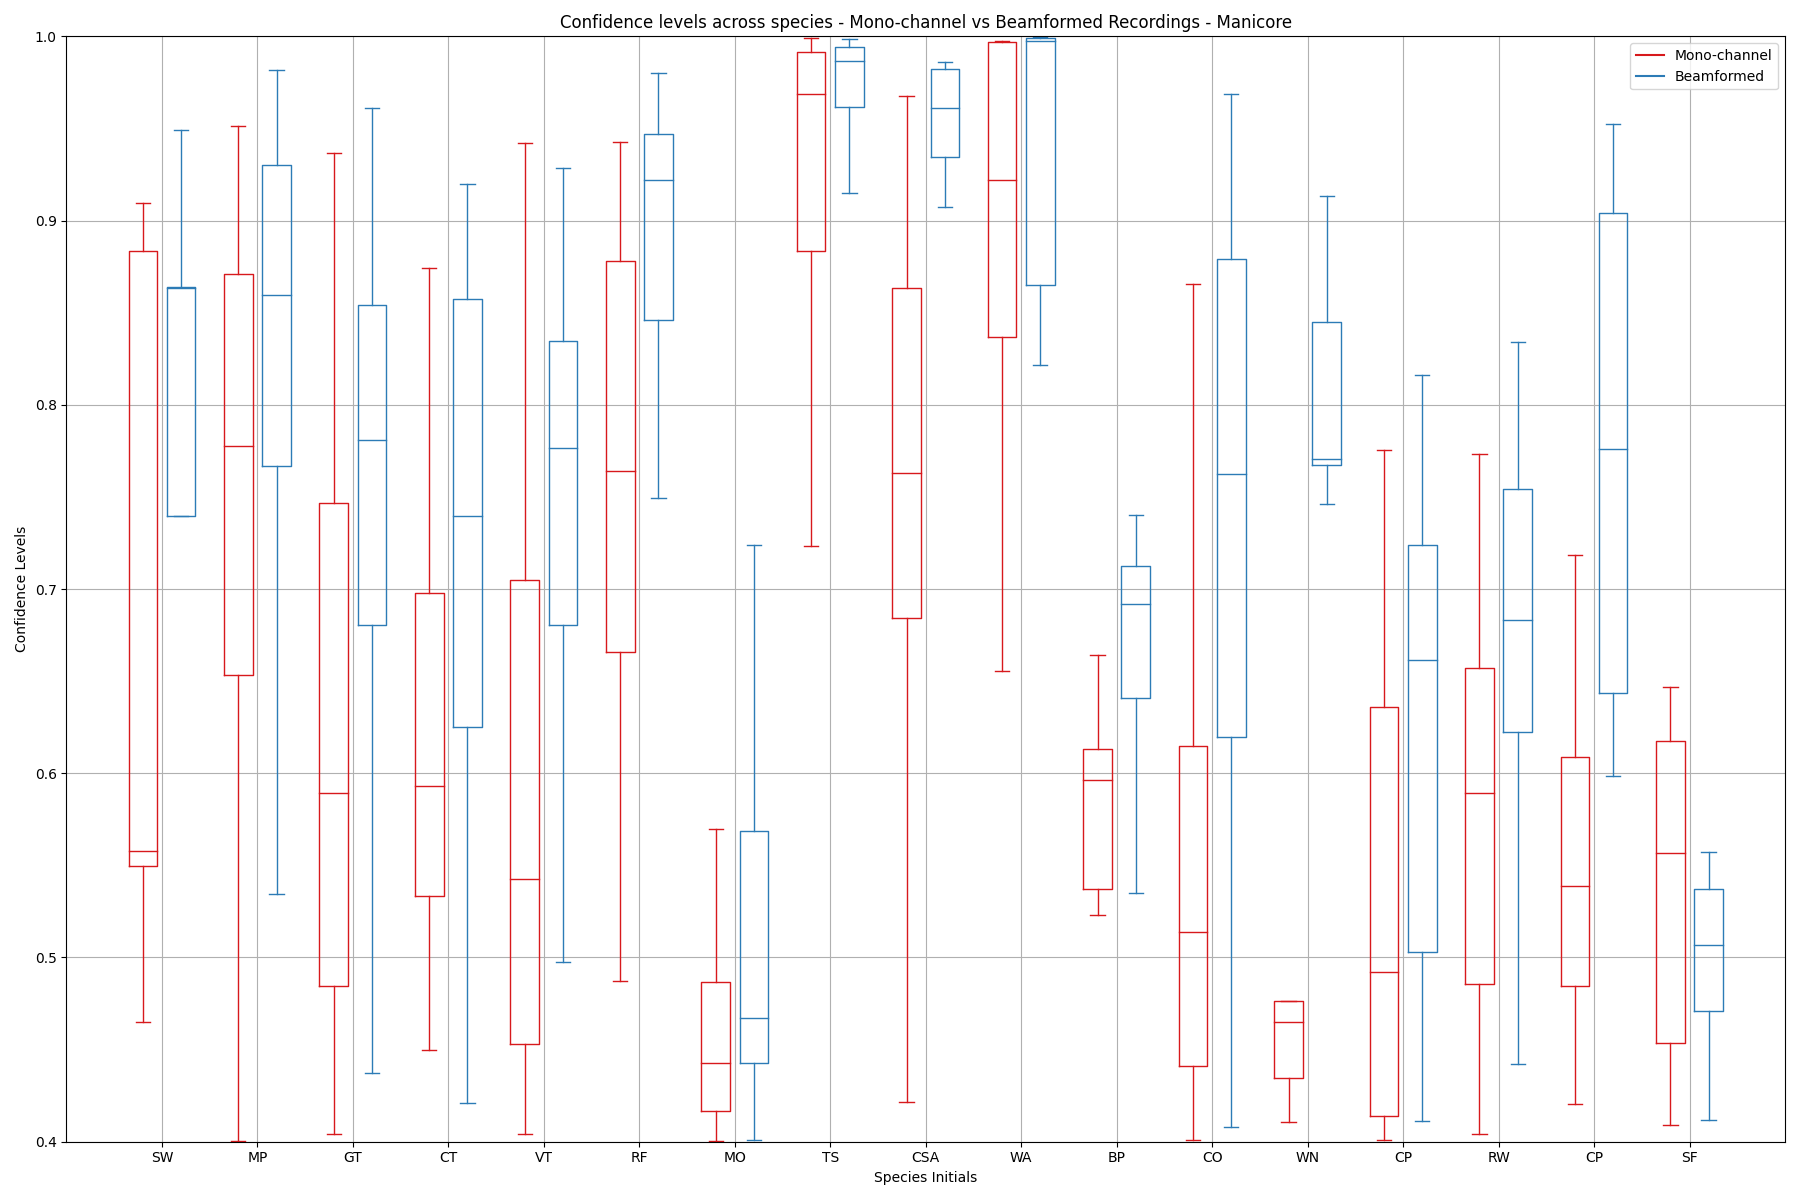
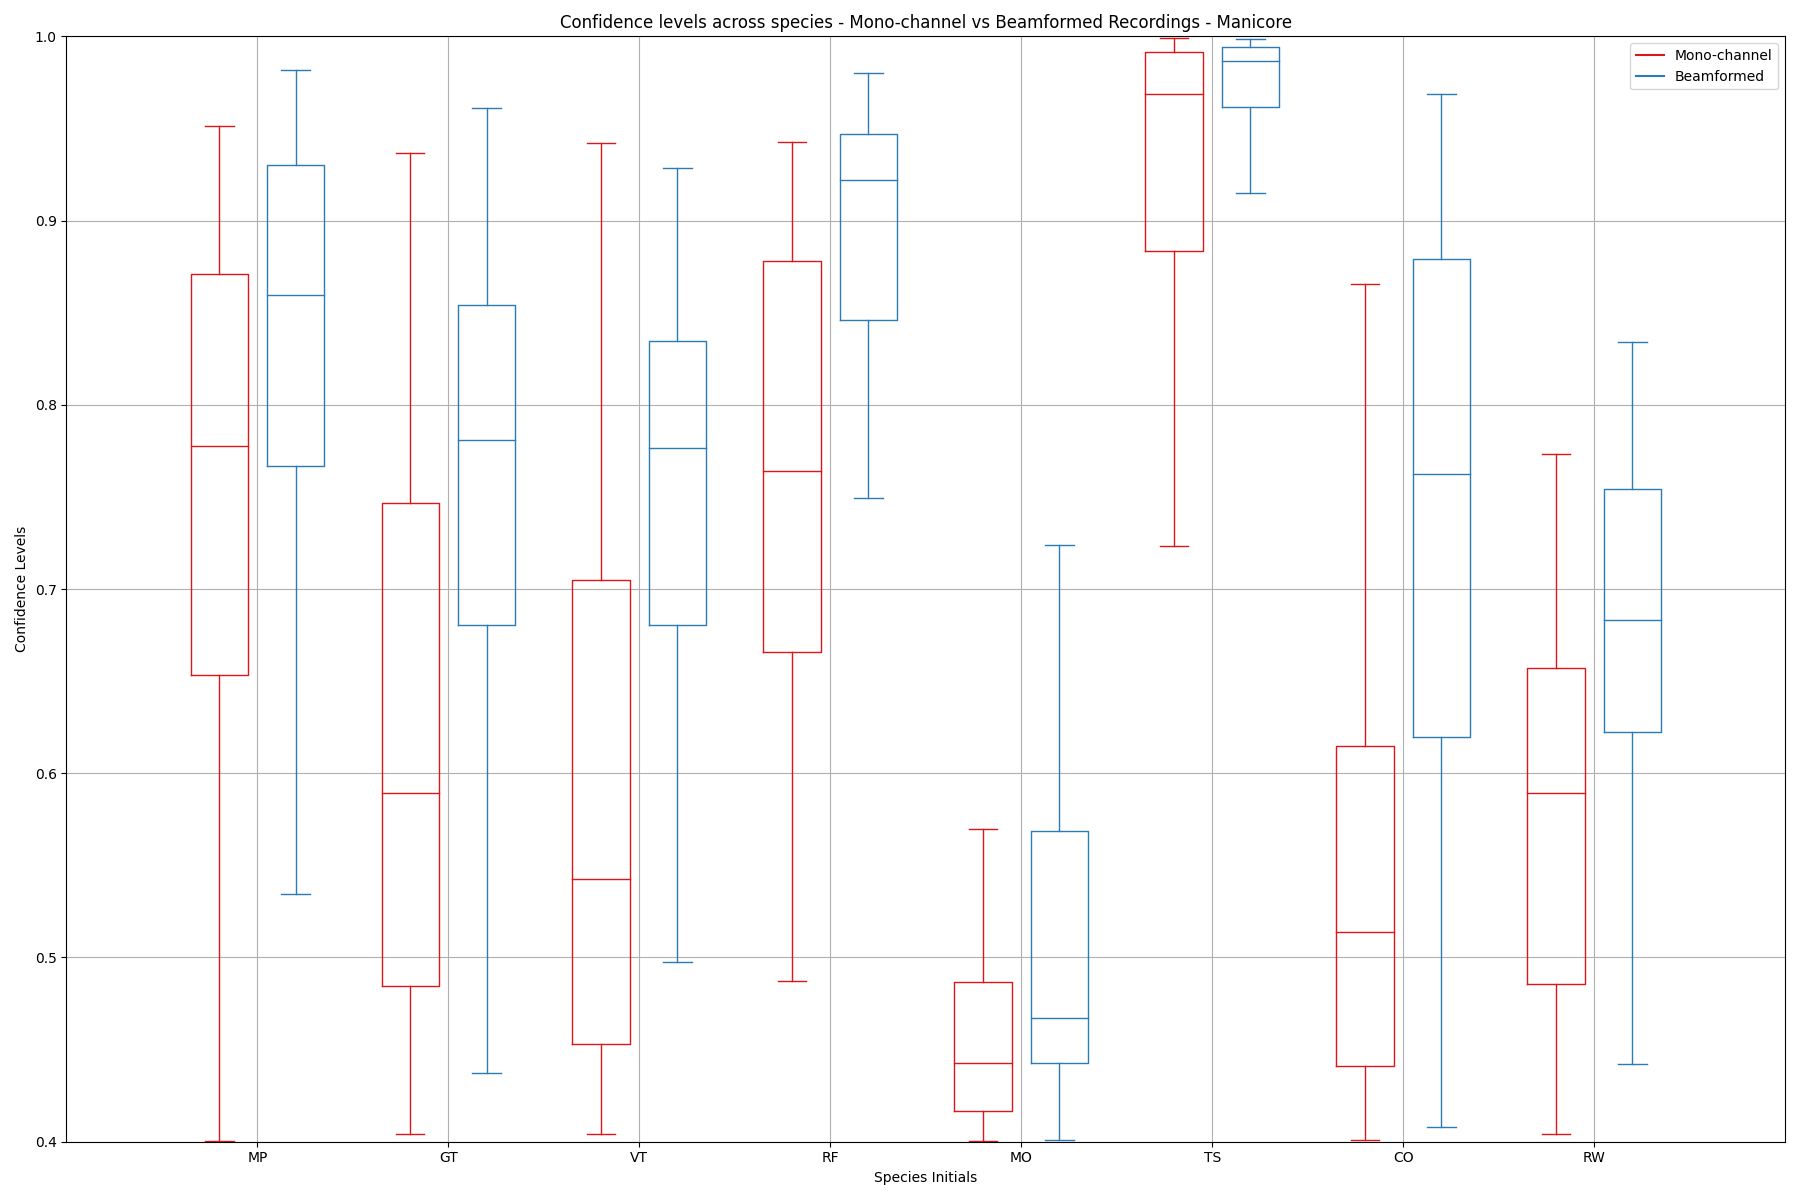
Added min sample size constraint

diff --git a/src/analysis_scripts/compare_birdnet_results.py b/src/analysis_scripts/compare_birdnet_results.py
@@ -15,7 +15,7 @@ import matplotlib.pyplot as plt
 import numpy as np
 
 # Define constants
-DIR_PATH = "data/processed/speaker_sphere_lab_tests/n20SNR"
+DIR_PATH = "data/processed/manicore"
 
 # Set the location of data...
 if "manicore" in DIR_PATH:
@@ -24,6 +24,8 @@ elif "silwood" in DIR_PATH:
     LOCATION = "Silwood"
 else:
     LOCATION = "Lab: Speaker Sphere"
+
+MIN_SAMPLE_SIZE = 20            # At least 20 detections, for confidence level tests
 
 # FUNCTIONS FOR PROCESSING A DIRECTORY OF RESULTS FILES-----------------------------------------------------------------------------------
 def read_results_from_file(file_path):
@@ -302,7 +304,7 @@ def plot_confidence_histograms(mono_data, bf_data, mono_file_path, bf_file_path)
 
     # Extract the confidence levels list for each species - append to list of lists
     for species in mono_data.keys():
-        if mono_data[species]["count"] >= 20:    # Only plot those with more than 20 detections (otherwise, histograms aren't useful)
+        if mono_data[species]["count"] >= MIN_SAMPLE_SIZE:    # Only plot those with more than 20 detections (otherwise, histograms aren't useful)
             hist_conf_data_mono.append(mono_data[species]["conf_list"])
             hist_conf_data_bf.append(bf_data[species]["conf_list"])
             hist_labels.append(get_initials(species))
@@ -332,7 +334,7 @@ def boxplot_conf_comparison(mono_data, bf_data, file_path):
 
     # Extract the confidence levels list for each species - append to list of lists
     for species in mono_data.keys():
-        if mono_data[species]["count"] >= 5:    # Only plot those with more than 5 detections (greater sample size)
+        if mono_data[species]["count"] >= MIN_SAMPLE_SIZE:    # Only plot those with more than 20 detections (greater sample size)
             boxplot_conf_data_mono.append(mono_data[species]["conf_list"])
             boxplot_conf_data_bf.append(bf_data[species]["conf_list"])
             boxplot_labels.append(get_initials(species))
@@ -427,7 +429,7 @@ processed_results = {"mono_channel": {},
 # New dict to compare species count, above a min conf level - detections in either mono or beamformed
 species_counts = {"mono_channel": {},
                  "beamformed": {}}
-CONF_MIN = 0.4          # Specify threshold confidence level
+CONF_MIN = 0.7          # Specify threshold confidence level
 
 # Analyse all results files in the directory
 for root, dirs, files in os.walk(DIR_PATH, topdown=False):
